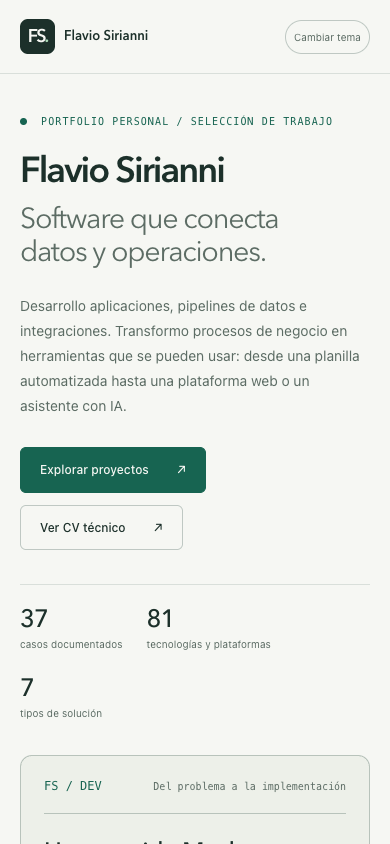
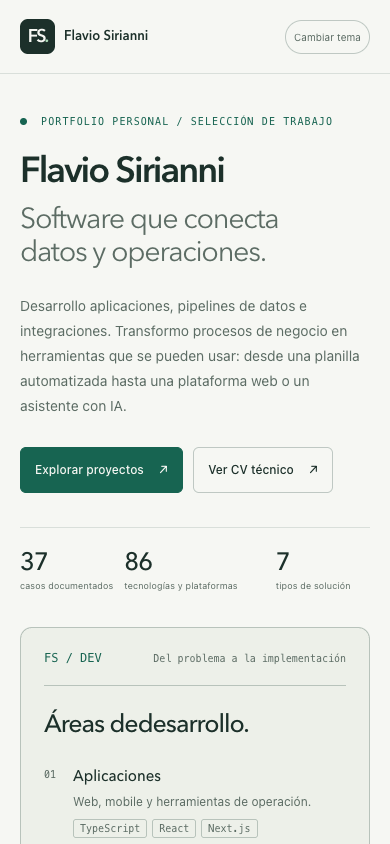
fix: reconcile technology filters and make CV links portable

diff --git a/src/tools/23-analisis-deportivo.html b/src/tools/23-analisis-deportivo.html
@@ -2,7 +2,7 @@
   data-title="Asistente de investigación y seguimiento deportivo"
   data-sector="Producto propio · deportes de combate"
   data-summary="Un bot de Telegram que cruza estadísticas, antecedentes, noticias y cuotas, lleva un registro personal de apuestas y se alimenta de un extractor propio de datos."
-  data-stack="OpenAI,Telegram,Node.js,SQLite,UFCStats,The Odds API,Python,Playwright">
+  data-stack="OpenAI,Telegram,Node.js,SQLite,UFCStats,The Odds API,Python,Playwright,APIs de estadísticas y cuotas,BeautifulSoup,JSON">
   <div class="wrap tool-head">
     <p class="eyebrow">Producto propio · deportes de combate</p>
     <h1>Asistente de investigación y seguimiento deportivo</h1>

diff --git a/src/tools/09-reclamos-whatsapp.html b/src/tools/09-reclamos-whatsapp.html
@@ -2,7 +2,7 @@
   data-title="Gestión de reclamos por WhatsApp"
   data-sector="Servicios de limpieza · campus universitario"
   data-summary="Un bot de WhatsApp que toma el reclamo con ubicación y fotos, lo deriva al equipo, pide evidencia del arreglo y la conformidad de quien reportó."
-  data-stack="WhatsApp Cloud API,Python,FastAPI,Firestore,Google Sheets,Google Drive,BigQuery,Google OAuth,Cloud Run">
+  data-stack="WhatsApp Cloud API,Python,FastAPI,Firestore,Google Sheets,Google Drive,BigQuery,Google OAuth,Cloud Run,HTML,JavaScript">
   <div class="wrap tool-head">
     <p class="eyebrow">Servicios de limpieza · campus universitario</p>
     <h1>Gestión de reclamos por WhatsApp</h1>

diff --git a/src/tools/06-fichadores.html b/src/tools/06-fichadores.html
@@ -2,7 +2,7 @@
   data-title="Lectura de fichadores y conciliación de asistencia"
   data-sector="Empresa de logística · varias sedes"
   data-summary="Las marcaciones de los relojes biométricos llegan solas a la planilla de asistencia y se cruzan con el padrón y el personal esperado por sede."
-  data-stack="JPH Lions / Cronos,BigQuery,Google Sheets,Python,SQL,Google Apps Script,Cloud Run,Tango">
+  data-stack="JPH Lions / Cronos,BigQuery,Google Sheets,Python,SQL,Google Apps Script,Cloud Run,Tango,APIs de fichadores">
   <div class="wrap tool-head">
     <p class="eyebrow">Empresa de logística · varias sedes</p>
     <h1>Lectura de fichadores y conciliación de asistencia</h1>

diff --git a/src/tools/28-intranet.html b/src/tools/28-intranet.html
@@ -2,7 +2,7 @@
   data-title="Intranet de proyectos, costos y esfuerzo"
   data-sector="Uso interno · desarrollo de software"
   data-summary="Intranet de gestión: proyectos y costos de proveedores conciliados, una bitácora automática del trabajo de desarrollo y un estimador de presupuestos."
-  data-stack="Next.js,Supabase,OpenAI Admin API,BigQuery,Claude Code,React,TypeScript,PostgreSQL,Vercel">
+  data-stack="Next.js,Supabase,OpenAI Admin API,BigQuery,Claude Code,React,TypeScript,PostgreSQL,Vercel,Node.js">
   <div class="wrap tool-head">
     <p class="eyebrow">Uso interno · desarrollo de software</p>
     <h1>Intranet de proyectos, costos y esfuerzo</h1>

diff --git a/src/tools/02-asistente-negocio.html b/src/tools/02-asistente-negocio.html
@@ -2,7 +2,7 @@
   data-title="Asistente para consultar el negocio por chat"
   data-sector="Negocio gastronómico · +100 puntos de venta"
   data-summary="Un bot de Telegram que responde ventas, cobros, compras y deudas en lenguaje cotidiano, y cada mañana manda la agenda de cobranza armada."
-  data-stack="OpenAI,Telegram,BigQuery,Python,FastAPI,Firestore,Cloud Run,Cloud Scheduler">
+  data-stack="OpenAI,Telegram,BigQuery,Python,FastAPI,Firestore,Cloud Run,Cloud Scheduler,SQL">
   <div class="wrap tool-head">
     <p class="eyebrow">Negocio gastronómico · +100 puntos de venta</p>
     <h1>Asistente para consultar el negocio por chat</h1>

diff --git a/src/tools/13-horas-nomina.html b/src/tools/13-horas-nomina.html
@@ -2,7 +2,7 @@
   data-title="Preparación y revisión de horas de nómina"
   data-sector="Servicios de campo · EE.UU."
   data-summary="Fichadas, días libres y feriados combinados con las reglas de cada tipo de empleado, con vista previa, advertencias y corridas auditables."
-  data-stack="Google Apps Script,Google Sheets,Plataforma de BI,BambooHR,HTML,JavaScript">
+  data-stack="Google Apps Script,Google Sheets,Plataforma de BI,BambooHR,HTML,JavaScript,Integraciones de asistencia y RR.HH.">
   <div class="wrap tool-head">
     <p class="eyebrow">Servicios de campo · EE.UU.</p>
     <h1>Preparación y revisión de horas de nómina</h1>

diff --git a/src/tools/32-planificacion-compras.html b/src/tools/32-planificacion-compras.html
@@ -2,7 +2,7 @@
   data-title="Planificación de compras e inventario"
   data-sector="Retail · cadena de tiendas · EE.UU."
   data-summary="Un modelo que proyecta el inventario de cierre y calcula cuánto se puede comprar por departamento y ubicación, contra presupuesto y año anterior."
-  data-stack="SQL,Plataforma de BI,ERP,Planificación de inventario,Python,CSV">
+  data-stack="SQL,Plataforma de BI,ERP,Planificación de inventario,Python,CSV,APIs de plataformas de BI">
   <div class="wrap tool-head">
     <p class="eyebrow">Retail · cadena de tiendas · EE.UU.</p>
     <h1>Planificación de compras e inventario</h1>

diff --git a/src/tools/12-comisiones.html b/src/tools/12-comisiones.html
@@ -2,7 +2,7 @@
   data-title="Simulación de metas y comisiones"
   data-sector="Servicios de campo · EE.UU."
   data-summary="Una webapp para probar políticas de comisiones antes de cambiarlas, con historial de metas y resultados que alimenta los reportes de BI."
-  data-stack="Google Apps Script,Google Sheets,Plataforma de BI,HTML,CSS,JavaScript">
+  data-stack="Google Apps Script,Google Sheets,Plataforma de BI,HTML,CSS,JavaScript,APIs de plataformas de BI">
   <div class="wrap tool-head">
     <p class="eyebrow">Servicios de campo · EE.UU.</p>
     <h1>Simulación de metas y comisiones</h1>

diff --git a/build.py b/build.py
@@ -37,8 +37,8 @@ def render_cv(cases):
     for slug in selected:
         case = next(c for c in cases if c['id'] == slug)
         status = ' · ' + escape(case['data-status']) if case.get('data-status') else ''
-        items.append('<article><h3><a href="./#'+slug+'">'+escape(case['data-title'])+'</a>'+status+'</h3><p>'+escape(case['data-summary'])+'</p><p class="stack-line">'+escape(case['data-stack'].replace(',', ' · '))+'</p></article>')
-    return '''<!doctype html><html lang="es"><head><meta charset="utf-8"><meta name="viewport" content="width=device-width,initial-scale=1"><title>CV técnico · Flavio Sirianni</title><link rel="icon" href="favicon.svg"><link rel="stylesheet" href="cv.css"></head><body><nav><a href="./">← Volver al portfolio</a><button id="print-cv" type="button">Imprimir / Guardar PDF</button></nav><main><header><p class="eyebrow">Perfil técnico / Portfolio de proyectos</p><h1>Flavio Sirianni</h1><p class="role">Desarrollo de software, datos y automatización</p><a href="https://github.com/flaviosirianni">github.com/flaviosirianni</a></header><section><h2>Perfil</h2><p>Desarrollo aplicaciones web, herramientas operativas, pipelines de datos e integraciones. Trabajo con TypeScript, JavaScript, Python y SQL para conectar sistemas, automatizar procesos y construir asistentes con IA. Mi portfolio reúne '''+str(len(cases))+''' casos documentados con implementación y stack tecnológico.</p></section><section><h2>Competencias técnicas</h2><dl><dt>Aplicaciones web y móviles</dt><dd>React, Next.js, TypeScript, Astro, Expo, React Native, HTML, CSS, Tailwind, Vite.</dd><dt>Backend e integraciones</dt><dd>Python, FastAPI, Node.js, Express, APIs REST, webhooks, OAuth2, Google Apps Script.</dd><dt>Datos y persistencia</dt><dd>SQL, BigQuery, PostgreSQL, Supabase, Prisma, SQLite, Firestore, Google Sheets.</dd><dt>IA, infraestructura y calidad</dt><dd>OpenAI, Claude, Telegram, WhatsApp Cloud API, Cloud Run, Cloudflare Workers, Vercel, Docker, Vitest, Playwright.</dd></dl></section><section><h2>Proyectos seleccionados</h2>'''+''.join(items)+'''</section><footer>Portfolio completo: <a href="https://flaviosirianni.github.io/flavio-casos/">flaviosirianni.github.io/flavio-casos/</a><br>Selección de proyectos, sin cronología laboral. Clientes anónimos y capturas de demostración.<br>Actualizado: octubre de 2026.</footer></main><script src="cv.js" defer></script></body></html>'''
+        items.append('<article><h3><a href="index.html#'+slug+'">'+escape(case['data-title'])+'</a>'+status+'</h3><p>'+escape(case['data-summary'])+'</p><p class="stack-line">'+escape(case['data-stack'].replace(',', ' · '))+'</p></article>')
+    return '''<!doctype html><html lang="es"><head><meta charset="utf-8"><meta name="viewport" content="width=device-width,initial-scale=1"><title>CV técnico · Flavio Sirianni</title><link rel="icon" href="favicon.svg"><link rel="stylesheet" href="cv.css"></head><body><nav><a href="index.html">← Volver al portfolio</a><button id="print-cv" type="button">Imprimir / Guardar PDF</button></nav><main><header><p class="eyebrow">Perfil técnico / Portfolio de proyectos</p><h1>Flavio Sirianni</h1><p class="role">Desarrollo de software, datos y automatización</p><a href="https://github.com/flaviosirianni">github.com/flaviosirianni</a></header><section><h2>Perfil</h2><p>Desarrollo aplicaciones web, herramientas operativas, pipelines de datos e integraciones. Trabajo con TypeScript, JavaScript, Python y SQL para conectar sistemas, automatizar procesos y construir asistentes con IA. Mi portfolio reúne '''+str(len(cases))+''' casos documentados con implementación y stack tecnológico.</p></section><section><h2>Competencias técnicas</h2><dl><dt>Aplicaciones web y móviles</dt><dd>React, Next.js, TypeScript, Astro, Expo, React Native, HTML, CSS, Tailwind, Vite.</dd><dt>Backend e integraciones</dt><dd>Python, FastAPI, Node.js, Express, APIs REST, webhooks, OAuth2, Google Apps Script.</dd><dt>Datos y persistencia</dt><dd>SQL, BigQuery, PostgreSQL, Supabase, Prisma, SQLite, Firestore, Google Sheets.</dd><dt>IA, infraestructura y calidad</dt><dd>OpenAI, Claude, Telegram, WhatsApp Cloud API, Cloud Run, Cloudflare Workers, Vercel, Docker, Vitest, Playwright.</dd></dl></section><section><h2>Proyectos seleccionados</h2>'''+''.join(items)+'''</section><footer>Portfolio completo: <a href="https://flaviosirianni.github.io/flavio-casos/">flaviosirianni.github.io/flavio-casos/</a><br>Selección de proyectos, sin cronología laboral. Clientes anónimos y capturas de demostración.<br>Actualizado: octubre de 2026.</footer></main><script src="cv.js" defer></script></body></html>'''
 
 def build():
     """Por que existe: compilar fragmentos y recursos en una salida autocontenida.

diff --git a/tests/test_site.py b/tests/test_site.py
@@ -4,6 +4,7 @@ from html.parser import HTMLParser
 from pathlib import Path
 from urllib.parse import urlsplit, unquote
 import unittest
+import re
 
 ROOT = Path(__file__).resolve().parents[1]
 spec = importlib.util.spec_from_file_location('portfolio_build', ROOT / 'build.py')
@@ -70,6 +71,23 @@ class SiteTests(unittest.TestCase):
                     self.assertIn('alt', attrs)
                 if attrs.get('target') == '_blank':
                     self.assertIn('noopener', attrs.get('rel', ''))
+
+    def test_detailed_technologies_are_searchable(self):
+        """Por que existe: evitar filtros que omitan stacks visibles. @returns: None. Efectos secundarios: ninguno."""
+        for fragment in (ROOT/'src/tools').glob('*.html'):
+            source = fragment.read_text()
+            metadata = set(re.search(r'data-stack="([^"]+)"', source).group(1).split(','))
+            details = [re.sub('<[^>]+>', '', tag) for stack in re.findall(r'<div class="stack">(.*?)</div>', source, re.S) for tag in re.findall(r'<span class="tag">(.*?)</span>', stack)]
+            self.assertTrue(set(details).issubset(metadata), f'{fragment.name}: {set(details)-metadata}')
+
+    def test_offline_cv_links_target_an_html_file(self):
+        """Por que existe: conservar navegación bajo file://. @returns: None. Efectos secundarios: ninguno."""
+        parser = PageParser(); parser.feed((self.output/'cv.html').read_text())
+        for tag, attrs in parser.nodes:
+            if tag == 'a':
+                url = urlsplit(attrs.get('href', ''))
+                if not url.scheme and not url.netloc:
+                    self.assertEqual(url.path, 'index.html')
 
     def test_valid_document_structure_and_printable_cv(self):
         """Por que existe: validar documentos y alternativa de CV. @returns: None. Efectos secundarios: ninguno."""

diff --git a/qa/report.md b/qa/report.md
@@ -2,7 +2,7 @@
 
 26 de octubre de 2026. Resultado local: aprobado.
 
-Build y cuatro pruebas de contrato aprobados: 37 casos únicos con implementación y stack; ausencia de identidad corporativa; recursos y enlaces relativos válidos; estructura de documentos y CV.
+Build y seis pruebas de contrato aprobados: 37 casos únicos con implementación y stack; ausencia de identidad corporativa; recursos y enlaces relativos válidos; estructura de documentos y CV.
 
 Playwright MCP: filtros combinados, búsqueda sin acentos, vacío y recuperación, todos los casos por ancla, navegación anterior/siguiente y atrás del navegador, recuperación de ancla desconocida y apertura del CV. La etiqueta accesible del selector de tecnología se corrigió durante la validación y se volvió a comprobar.
 
@@ -11,3 +11,7 @@ Verificados escritorio de 1440px, móvil de 390px y tema oscuro. Sin desborde ho
 La validación cubre el portfolio. No prueba las aplicaciones de clientes ni sus servicios externos.
 
 Publicación pública pendiente de autorización. El repositorio se conserva privado y el workflow omite despliegues mientras mantenga esa visibilidad.
+
+Revisión adicional: reconciliados los stacks de las fichas con los metadatos usados en los filtros, y corregidas las rutas del CV para navegar también desde una copia file://. Dos pruebas de regresión reprodujeron ambos fallos antes de la corrección y pasan después.
+
+Revisión independiente posterior a las correcciones: seis pruebas y ambas comprobaciones de sintaxis aprobadas; sin bloqueos críticos o importantes para la entrega privada. GitHub Actions también valida la rama de entrega.

diff --git a/docs/superpowers/plans/2026-10-26-portfolio.md b/docs/superpowers/plans/2026-10-26-portfolio.md
@@ -9,4 +9,5 @@
 - [x] Completar implementación y stack de los 37 casos; conservar los estados de validación y prototipo.
 - [x] Generar CV técnico imprimible y build portable sin dependencias.
 - [x] Validar estructura, recursos, ausencia de marca, filtros y recorridos en navegador de escritorio y móvil.
-- [ ] Crear repositorio, subir versión verificada, activar Pages y verificar URL pública.
+- [x] Crear repositorio privado y subir versión verificada.
+- [ ] Autorizar publicación pública, activar Pages y verificar URL pública.
